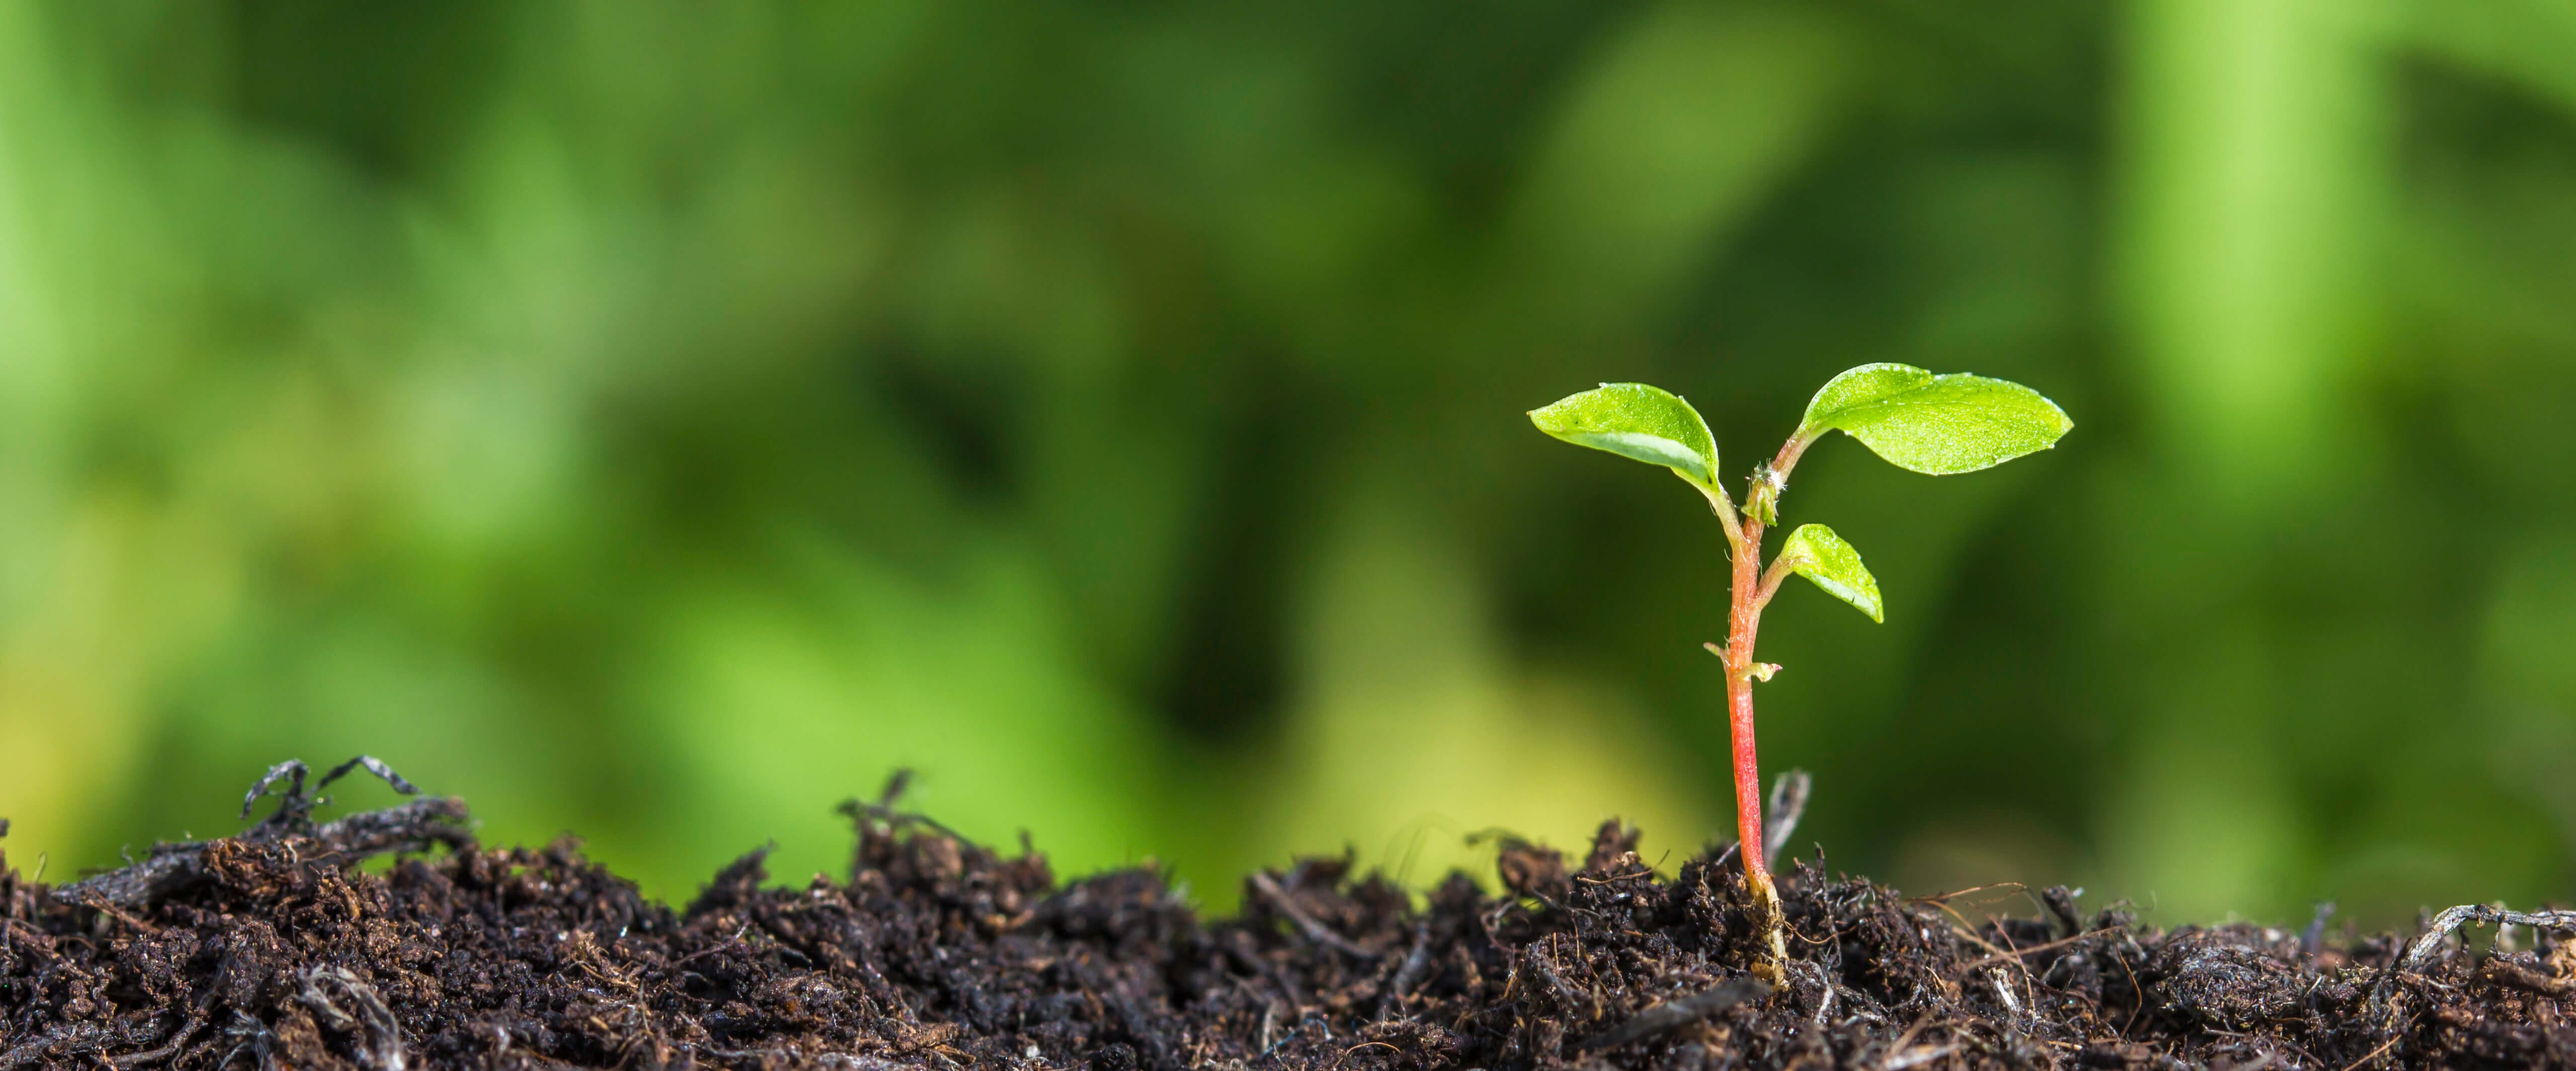
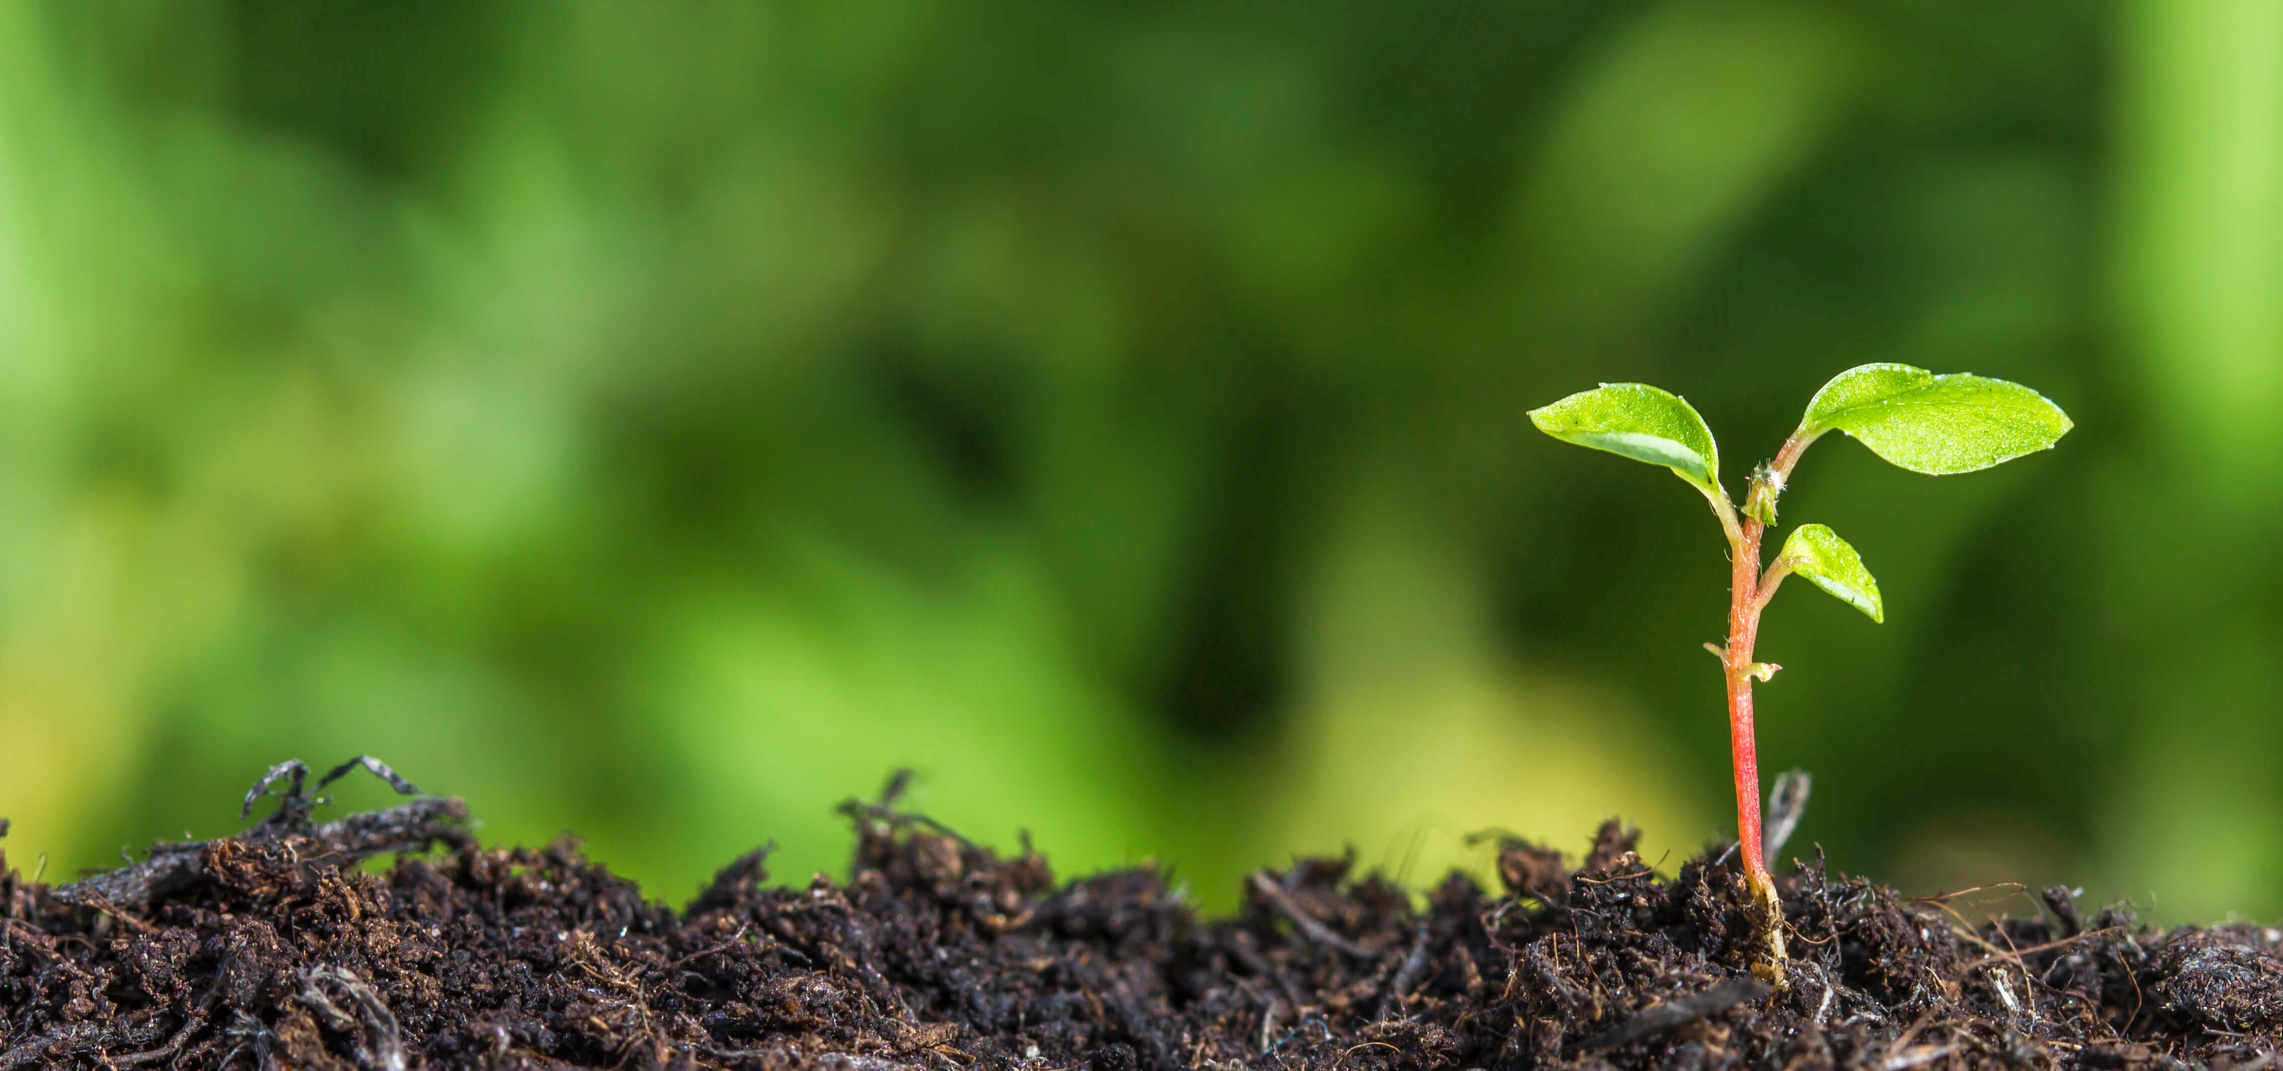
Reposition header image

diff --git a/src/pages/Home.jsx b/src/pages/Home.jsx
@@ -8,7 +8,7 @@ import About from '../components/Home/About';
  */
 const Home = () => (
   <div className="home">
-    <Header backgroundImage={require('../images/home-header.jpg')} backgroundPosition="60%">
+    <Header backgroundImage={require('../images/home-header.jpg')} backgroundPosition="60% 60%">
       <p>North Texas</p>
       <h1>Families In Transition</h1>
       <h2>Professionals Encouraging Healthy Families</h2>

diff --git a/src/styles/header.scss b/src/styles/header.scss
@@ -18,6 +18,7 @@
     box-shadow: 1px 1px 18px rgba(0, 0, 0, 0.25);
     box-sizing: border-box;
     margin-top: $nav-height;
+    max-width: $content-width;
     padding: 20px 30px;
     text-align: center;
     z-index: 1;
@@ -40,6 +41,8 @@
     }
 
     .content {
+      padding: 20px;
+
       h1 {
         font-size: 32px;
       }
